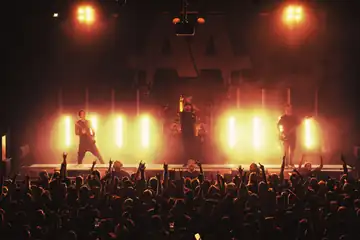
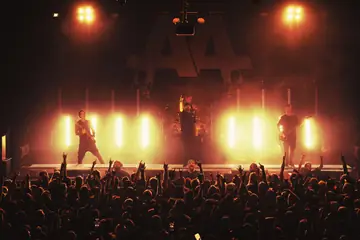
Update Kyle's About story and give the headlines room to breathe.
The opening home photo is Asking Alexandria-14, and his portrait with the logo appears only once.

diff --git a/about.html b/about.html
@@ -57,33 +57,25 @@
     <section class="founder" id="story">
       <div class="wrap founder-stage">
         <figure class="founder-frame" data-reveal>
-          <img src="assets/photos/kyle-brooks.webp" alt="Kyle Brooks, founder of Same Streets Presents." width="1067" height="1600" loading="lazy" decoding="async">
-          <figcaption>
-            <span class="eyebrow">Founder</span>
-            <strong>Kyle Brooks</strong>
-            <span>Cleveland, Tennessee</span>
-          </figcaption>
+          <img src="assets/photos/singer-bw.webp" alt="A singer smiling into a microphone under bright stage lights." width="414" height="414" loading="lazy" decoding="async" style="object-position:center">
         </figure>
         <div class="founder-lead stack" data-reveal style="--d:90ms">
           <p class="eyebrow">Our story</p>
           <h2>Every scene starts somewhere.</h2>
-          <p>Growing up in Cleveland, Tennessee, it wasn't always easy to find a place for the kind of music I loved.</p>
-          <p>The bands were out there. The people were out there. But finding each other, finding somewhere to play, and finding a place to belong wasn't always easy.</p>
-          <p>For me, music became more than something to listen to. It became a way to connect with people, to express things I couldn't always put into words, and to discover who I was.</p>
-          <p>And somewhere along the way, I realized the shows were just as important as the songs.</p>
+          <p>I grew up in Cleveland, Tennessee, surrounded by people who loved loud, honest music. The bands were here. The fans were here. What I wanted was a place where they could all find each other.</p>
+          <p>For me, music was a way to connect, to say things I couldn't put into words, and to figure out who I was. Somewhere along the way, I realized the shows mattered just as much as the songs.</p>
         </div>
       </div>
       <blockquote class="founder-quote" data-reveal>
-        <p>The crowded rooms. The voices singing back. The strangers who didn't feel like strangers by the end of the night.</p>
+        <p>The loud rooms. The energy. The strangers who didn't feel like strangers by the end of the night.</p>
       </blockquote>
       <div class="wrap founder-letter" data-reveal>
-        <p>Those experiences shaped me. And I believe everyone deserves the chance to experience something like that.</p>
-        <p>That's why I started Same Streets Presents.</p>
-        <p>I want to help artists find their audience, create spaces where people can come together, and put on shows that people will remember long after the lights come on.</p>
-        <p>I want the kid who feels a little out of place to walk into a room and realize they've found their people. I want local artists to have opportunities I wish had been easier to find growing up. And I want to help create the kind of music scene that people are proud to be part of.</p>
-        <p>I'm starting right here in Cleveland, the place that shaped me.</p>
-        <p>But my vision is bigger than one city, one genre, or one room.</p>
-        <p class="founder-close">I just want to make more room for music. Everywhere I can.</p>
+        <p>That's what I want everyone to get to experience, and it's why I started Same Streets Presents.</p>
+        <p>I'm here to help artists find their audience, create spaces where people can come together, and put on shows people remember long after the ride home.</p>
+        <p>I want the kid who feels a little out of place to walk into a room and realize they've found their people. I want local artists to have the opportunities I wish I'd had. And I want to help build a scene people are proud to be part of.</p>
+        <p>I'm starting in Cleveland, the place that made me.</p>
+        <p>But this is bigger than one city, one genre, or one room.</p>
+        <p class="founder-close">I'm here to make more room for music. Everywhere I can.</p>
         <p class="founder-sign">Kyle Brooks, Founder</p>
       </div>
     </section>

diff --git a/css/styles.css b/css/styles.css
@@ -146,7 +146,7 @@ h1, h2, h3, .display {
   font-weight: 800;
   text-transform: uppercase;
   letter-spacing: -0.03em;
-  line-height: 0.86;
+  line-height: 1.05;
   overflow-wrap: break-word;
 }
 
@@ -157,7 +157,7 @@ h3 {
   font-weight: 700;
   text-transform: uppercase;
   letter-spacing: -0.02em;
-  line-height: 0.92;
+  line-height: 1.05;
   font-size: clamp(1.8rem, 3vw, 2.8rem);
 }
 
@@ -1414,7 +1414,7 @@ select:focus { border-color: var(--mustard); }
   font-family: var(--display);
   font-size: clamp(2.2rem, 5vw, 4.6rem);
   font-weight: 400;
-  line-height: 0.92;
+  line-height: 1.05;
   letter-spacing: -0.02em;
   text-transform: uppercase;
 }
